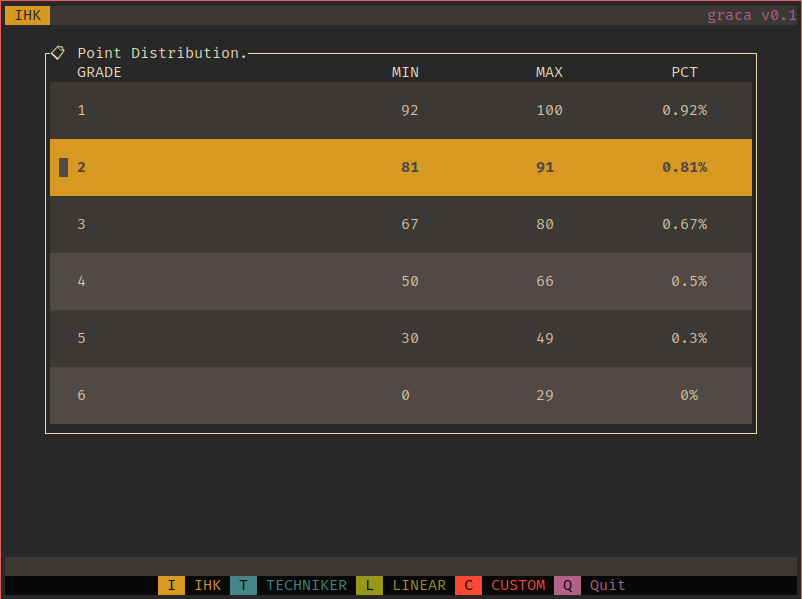
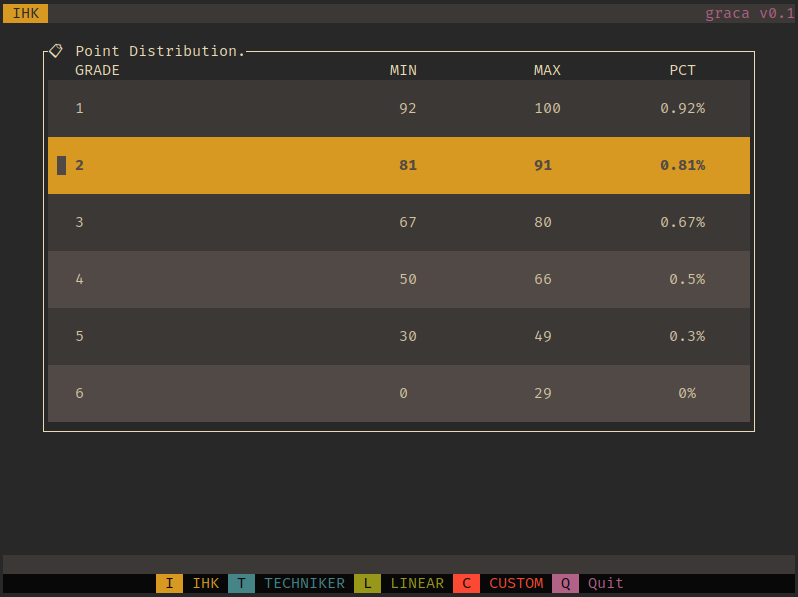
refactor: rename command from export -> export-to

diff --git a/src/app.rs b/src/app.rs
@@ -122,7 +122,12 @@ impl App {
         .areas(area);
 
         let identifier = Paragraph::new(text).style(Style::default().fg(Color::Black).bg(color));
-        let version = Paragraph::new("graca v0.1").right_aligned();
+        let version = Paragraph::new(format!(
+            "{} {}",
+            env!("CARGO_PKG_NAME"),
+            env!("CARGO_PKG_VERSION")
+        ))
+        .right_aligned();
 
         identifier.render(identifier_area, buf);
         version.render(version_area, buf);
@@ -234,11 +239,11 @@ impl App {
             AppMode::View => match key_event.code {
                 KeyCode::Char(':') => self.enter_command_mode(),
                 KeyCode::Char('p') => {
-                    self.input_field = "p ".into();
+                    self.input_field = "set-points ".into();
                     self.enter_command_mode();
                 }
                 KeyCode::Char('e') => {
-                    self.input_field = "e ".into();
+                    self.input_field = "export-to ".into();
                     self.enter_command_mode();
                 }
 

diff --git a/src/command.rs b/src/command.rs
@@ -33,7 +33,7 @@ impl Commands {
                     ))
                 }
             }
-            "export" => {
+            "export-to" => {
                 if let Some(path) = resolve_path(args[0]) {
                     Ok(Self::Export(path))
                 } else {
